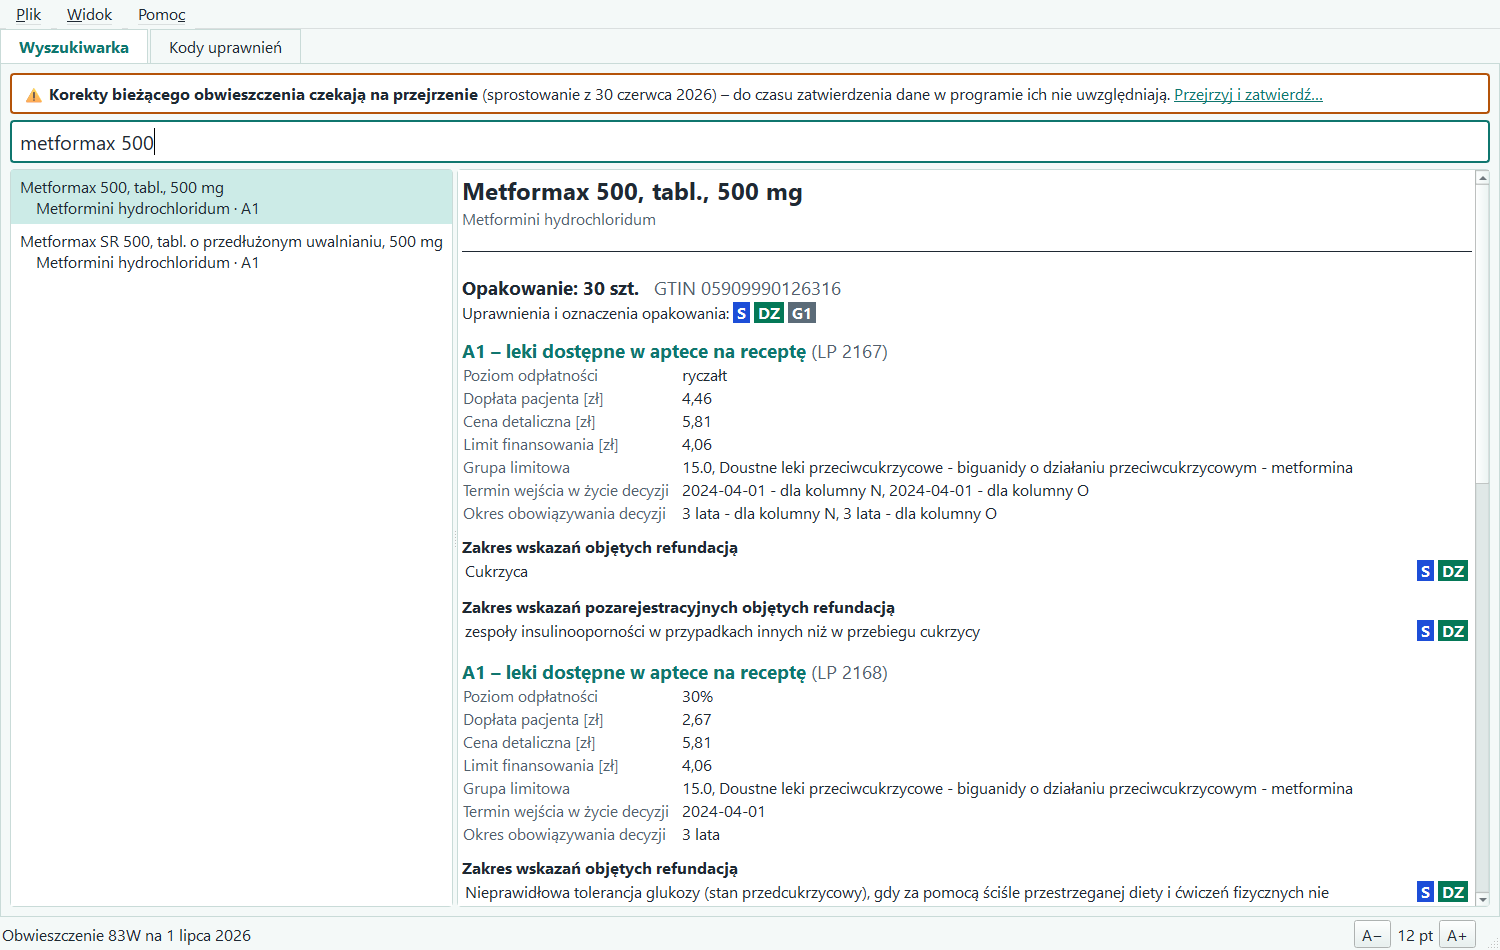
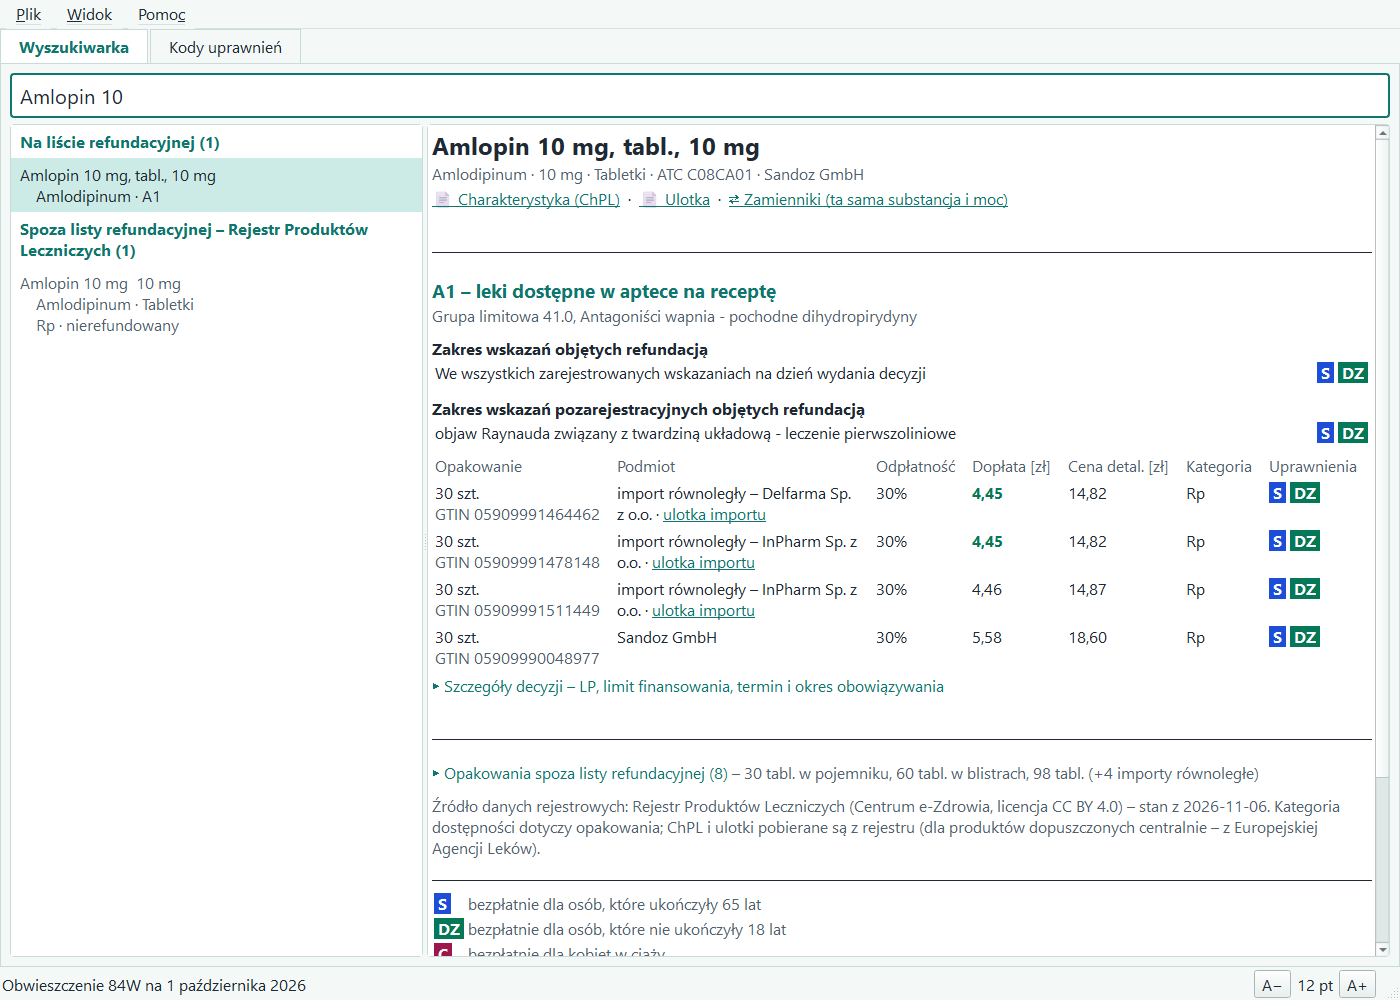
Refundator 1.1.0 i 1.2.0 – rejestr leków, zwarta karta, automatyczna aktualizacja

diff --git a/INSTRUKCJA.md b/INSTRUKCJA.md
@@ -8,13 +8,14 @@ Refundator pokazuje, czy lek jest na liście leków refundowanych (obwieszczenie
 3. [Wyszukiwanie](#3-wyszukiwanie)
 4. [Karta leku](#4-karta-leku)
 5. [Programy lekowe, chemioterapia i kody ICD-10](#5-programy-lekowe-chemioterapia-i-kody-icd-10)
-6. [Nowe obwieszczenia](#6-nowe-obwieszczenia)
-7. [Korekty – sprostowania i obwieszczenia zmieniające](#7-korekty--sprostowania-i-obwieszczenia-zmieniające)
-8. [Kody uprawnień](#8-kody-uprawnień)
-9. [Wygląd – motywy i rozmiar czcionki](#9-wygląd--motywy-i-rozmiar-czcionki)
-10. [Praca bez internetu](#10-praca-bez-internetu)
-11. [Dane, aktualizacja programu i odinstalowanie](#11-dane-aktualizacja-programu-i-odinstalowanie)
-12. [Skróty klawiszowe](#12-skróty-klawiszowe)
+6. [Leki spoza listy, ChPL, ulotki i zamienniki](#6-leki-spoza-listy-chpl-ulotki-i-zamienniki)
+7. [Nowe obwieszczenia](#7-nowe-obwieszczenia)
+8. [Korekty – sprostowania i obwieszczenia zmieniające](#8-korekty--sprostowania-i-obwieszczenia-zmieniające)
+9. [Kody uprawnień](#9-kody-uprawnień)
+10. [Wygląd – motywy i rozmiar czcionki](#10-wygląd--motywy-i-rozmiar-czcionki)
+11. [Praca bez internetu](#11-praca-bez-internetu)
+12. [Dane, aktualizacja programu i odinstalowanie](#12-dane-aktualizacja-programu-i-odinstalowanie)
+13. [Skróty klawiszowe](#13-skróty-klawiszowe)
 
 ---
 
@@ -44,6 +45,7 @@ Wpisz w pole wyszukiwania:
 | substancję czynną | `rivaroxabanum`, `metformina` | substancja po łacinie; polską nazwę program znajdzie przez grupę limitową |
 | numer GTIN | `05909990893423` | konkretne opakowanie |
 | kod ICD-10 | `M31.3`, `m 31,3`, `C50.9`, `F33` | leki z programów lekowych i chemioterapii, których załącznik obejmuje kod (dokładnie, całą kategorią, podkodem albo zakresem), oraz leki apteczne, w których treści wskazania kod jest wpisany wprost |
+| kod ATC | `C10AA05`, `b01af` | leki z danej grupy ATC (wymaga Rejestru Produktów Leczniczych – rozdział 6) |
 | nazwę choroby | `łuszczyca stawowa`, `miastenia` | leki z programów, których kody ICD-10 mają taką nazwę w urzędowym słowniku, oraz leki apteczne, w których treści wskazania pada to słowo |
 
 Wyniki wyszukiwania po chorobie pojawiają się w osobnej grupie **„Według choroby”**, a przy każdym leku widać, skąd pochodzi dopasowanie (np. „B.35. L40.5 Łuszczyca stawowa” albo „wskazanie: …”). Szukane słowa i kody są podświetlone na karcie leku.
@@ -55,8 +57,10 @@ Uwaga: wskazania leków aptecznych opisane w obwieszczeniu słowami (np. „Cukr
 ## 4. Karta leku
 Po wybraniu leku z listy po prawej stronie pojawia się jego karta:
 
-- **Opakowania** (zawartość, GTIN) i ich oznaczenia: **S**, **DZ**, **C**, a także F2 (technologia o wysokim poziomie innowacyjności), G1/G2 (lek wytwarzany w Polsce).
-- **Wiersze obwieszczenia** – część wykazu (A1 apteka, A2 środki spożywcze, A3 wyroby medyczne, B program lekowy, C chemioterapia) i numer LP; poziom odpłatności, dopłata pacjenta, cena detaliczna, limit finansowania, grupa limitowa, termin wejścia w życie i okres decyzji.
+- **Nagłówek** – nazwa, substancja, moc, postać, kod ATC i podmiot odpowiedzialny oraz przyciski **Charakterystyka (ChPL)**, **Ulotka** i **Zamienniki** (po pobraniu Rejestru Produktów Leczniczych – rozdział 6).
+- **Zakres refundacji** – część wykazu (A1 apteka, A2 środki spożywcze, A3 wyroby medyczne, B program lekowy, C chemioterapia) i grupa limitowa. Opakowania o identycznym zakresie (np. oryginał i jego importy równoległe) są zebrane razem – zakres widać raz. Jeśli opakowania mają w tej samej części kilka zakresów z różną odpłatnością, każdy jest osobno („zakres refundacji 1 z 2”).
+- **Tabela opakowań** pod zakresem – opakowanie i GTIN, podmiot (oryginał albo import równoległy, z linkiem do ulotki importu), poziom odpłatności, dopłata pacjenta, cena detaliczna, kategoria dostępności i oznaczenia **S**, **DZ**, **C**, F2 (technologia o wysokim poziomie innowacyjności), G1/G2 (lek wytwarzany w Polsce). Opakowania są ułożone od najniższej dopłaty, najniższa jest wyróżniona na zielono.
+- **▸ Szczegóły decyzji** – po kliknięciu: numer LP, limit finansowania, termin wejścia w życie i okres obowiązywania decyzji dla każdego opakowania. **▸ Opakowania spoza listy refundacyjnej** – pozostałe opakowania tego leku z rejestru (także importy, których nie ma w obwieszczeniu).
 - **Zakres wskazań** – każde wskazanie osobno (oznaczenia &lt;1&gt;, &lt;2&gt;… jak w obwieszczeniu), także wskazania pozarejestracyjne. Przy każdym wskazaniu znaczki **S / DZ / C** – uprawnienie obejmuje to wskazanie. Kliknięcie znaczka otwiera opis uprawnienia.
 
 ### Uwagi listy DZ
@@ -74,14 +78,23 @@ Dla leków z części B i C karta pokazuje załączniki, do których odwołuje s
 - Najedź na kod, żeby zobaczyć jego nazwę; **kliknij kod**, żeby wyszukać wszystkie leki z tym kodem.
 - Link **„pełny opis programu”** (B) albo **„pełna treść załącznika”** (C) otwiera treść załącznika: kryteria kwalifikacji i wyłączenia, dawkowanie, badania – z wyszukiwaniem w tekście (Enter – następne wystąpienie) i przyciskiem **„Otwórz oryginał (Word)”**. Automatyczna numeracja punktów z Worda może nie być odwzorowana – w razie wątpliwości otwórz oryginał.
 
-## 6. Nowe obwieszczenia
+## 6. Leki spoza listy, ChPL, ulotki i zamienniki
+Program korzysta też z **Rejestru Produktów Leczniczych** (Centrum e-Zdrowia) – wykazu wszystkich leków dopuszczonych do obrotu w Polsce. Pobierz go raz: **Plik → Pobierz Rejestr Produktów Leczniczych** (ok. 17 MB) albo link na pasku nad wyszukiwarką. Później program odświeża go razem z obwieszczeniem, gdy dane mają co najmniej 7 dni (stan rejestru widać w oknie aktualizacji i w dymku na pasku stanu).
+
+- **Leki spoza listy refundacyjnej** pojawiają się w wynikach w osobnej grupie **„Spoza listy refundacyjnej”** – z mocą, postacią i kategorią dostępności (Rp – na receptę, OTC – bez recepty, Rpz, Rpw, Lz). Ich karta pokazuje **„NIE MA NA LIŚCIE REFUNDACYJNEJ”** (żadne opakowanie – numer GTIN – nie występuje w obwieszczeniu), dane z rejestru i opakowania.
+- **Kod ATC:** wpisz np. `C10AA05` albo `B01AF`, żeby znaleźć leki z danej grupy – z listy i spoza niej.
+- Na karcie **leku refundowanego** dane z rejestru są wplecione w kartę (rozdział 4): kod ATC i podmiot w nagłówku, podmiot i kategoria dostępności w tabeli opakowań, pozostałe opakowania w sekcji „Opakowania spoza listy refundacyjnej”.
+- **Charakterystyka (ChPL)** i **Ulotka** – kliknij, program pobierze dokument i otworzy go w przeglądarce PDF (kopia jest przechowywana 30 dni). Dla leków dopuszczonych centralnie w Unii Europejskiej dokument pochodzi z Europejskiej Agencji Leków – jeden plik z ChPL i ulotką dla wszystkich mocy; jeśli go nie ma, program zaproponuje wyszukiwarkę EMA. Dla leków z importu równoległego rejestr udostępnia tylko ulotkę.
+- **Zamienniki** – leki o tej samej substancji (nazwie powszechnie stosowanej) i mocy, najpierw o tej samej postaci; przy refundowanych – część wykazu, poziom odpłatności i dopłata dla każdego opakowania. Kliknięcie nazwy otwiera kartę leku. O zamianie w aptece decyduje farmaceuta – lista jest pomocnicza.
+
+## 7. Nowe obwieszczenia
 Obwieszczenia ukazują się co kwartał (na 1 stycznia, kwietnia, lipca i października), zwykle kilka tygodni wcześniej.
 
 - Przy uruchomieniu program **sprawdza stronę MZ w tle** (można to wyłączyć: Plik → Sprawdzaj aktualizacje przy uruchomieniu). Pasek nad wyszukiwarką informuje o nowym obowiązującym obwieszczeniu, o obwieszczeniu ogłoszonym na kolejny kwartał i o nowych korektach.
 - Ogłoszone obwieszczenie można **pobrać wcześniej** – gdy wejdzie w życie, program **sam ustawi je jako bieżące** i o tym poinformuje.
 - W oknie aktualizacji (Ctrl+U) możesz też wrócić do innego pobranego obwieszczenia („Ustaw jako bieżące”).
 
-## 7. Korekty – sprostowania i obwieszczenia zmieniające
+## 8. Korekty – sprostowania i obwieszczenia zmieniające
 Ministerstwo publikuje korekty obwieszczeń tylko w PDF. Program pobiera je razem z obwieszczeniem i – dopóki ich nie przejrzysz – **ostrzega na pasku**, że dane ich nie uwzględniają.
 
 Otwórz **Plik → Korekty obwieszczenia** (Ctrl+K) albo link „Przejrzyj i zatwierdź…”:
@@ -95,28 +108,30 @@ Otwórz **Plik → Korekty obwieszczenia** (Ctrl+K) albo link „Przejrzyj i zat
 
 Dokumenty spoza danych programu (np. „Podstawy limitu”, ceny zbytu netto) są pokazywane tylko informacyjnie.
 
-## 8. Kody uprawnień
+## 9. Kody uprawnień
 Zakładka **„Kody uprawnień”** opisuje 10 kodów uprawnień dodatkowych pacjenta (S, DZ, C, IB, WE, IW, ZK, PO, AZ, WP): kogo dotyczą, zakres, wymagany dokument, podstawę prawną i to, czy farmaceuta może uzupełnić kod na recepcie. Kody S, DZ i C zależą od konkretnego leku i są widoczne na karcie leku; pozostałe wynikają z ustaw.
 
-## 9. Wygląd – motywy i rozmiar czcionki
+## 10. Wygląd – motywy i rozmiar czcionki
 - **Widok → Motyw jasny / Motyw ciemny / Wysoki kontrast.** Wysoki kontrast (czarne tło, biały tekst, żółte wyróżnienia, grubsze ramki) jest przeznaczony dla osób słabowidzących.
 - **Rozmiar czcionki:** Widok → Powiększ / Pomniejsz / Domyślny rozmiar, skróty Ctrl+= / Ctrl+− / Ctrl+0, Ctrl+kółko myszy na karcie leku albo przyciski **A− / A+** na pasku stanu (9–24 pt, domyślnie 12 pt).
 
 Wybór motywu i rozmiaru jest zapamiętywany.
 
-## 10. Praca bez internetu
+## 11. Praca bez internetu
 Bez dostępu do sieci można zaimportować pliki pobrane wcześniej ze strony MZ:
 - **Plik → Importuj obwieszczenie z pliku (xlsx)** – plik `…_zalacznik_do_obwieszczenia.xlsx`,
-- **Plik → Importuj załączniki B/C z pliku (7z/zip)** – archiwa `Programy_lekowe_RRRR-MM` i `Chemioterapia_RRRR-MM`.
+- **Plik → Importuj załączniki B/C z pliku (7z/zip)** – archiwa `Programy_lekowe_RRRR-MM` i `Chemioterapia_RRRR-MM`,
+- **Plik → Importuj Rejestr Produktów Leczniczych z pliku (csv)** – plik CSV rejestru (rejestry.ezdrowie.gov.pl → Rejestr Produktów Leczniczych → eksport CSV albo dane.gov.pl, zbiór 397).
 
 Import jest ścisły: jeśli układ pliku różni się od oczekiwanego, program przerywa import i nic nie zapisuje. Uwagi z importu: **Plik → Raport importu**.
 
-## 11. Dane, aktualizacja programu i odinstalowanie
+## 12. Dane, aktualizacja programu i odinstalowanie
 - Baza danych i pobrane pliki: `%LOCALAPPDATA%\Refundator`. Ustawienia (motyw, czcionka): rejestr użytkownika.
-- **Nowa wersja programu:** pobierz nowy instalator z [Wydania](../../releases/latest) i uruchom – zainstaluje się w miejsce poprzedniej, dane zostaną.
+- **Nowa wersja programu (od 1.2.0) instaluje się sama:** przy uruchomieniu program sprawdza wydania na GitHubie; gdy jest nowsza wersja, pobiera instalator (postęp na ekranie startowym), sprawdza jego sumę kontrolną, informuje o aktualizacji (szczegóły – „Pokaż szczegóły”: co nowego), instaluje ją i uruchamia się ponownie. Dane i ustawienia zostają. Bez internetu program uruchamia się normalnie. Automatyczną aktualizację można wyłączyć: **Plik → Aktualizuj program automatycznie**; ręcznie: **Pomoc → Sprawdź aktualizacje programu**.
+- Wersje 1.0.0 i 1.1.0 nie aktualizują się same – pobierz instalator z [Wydania](../../releases/latest) i uruchom; zainstaluje się w miejsce poprzedniej, dane zostaną.
 - **Odinstalowanie:** Ustawienia Windows → Aplikacje → Refundator albo menu Start → Refundator → „Odinstaluj Refundator”. Dane w `%LOCALAPPDATA%\Refundator` zostają – można je usunąć ręcznie.
 
-## 12. Skróty klawiszowe
+## 13. Skróty klawiszowe
 | Skrót | Działanie |
 |---|---|
 | Ctrl+U | Aktualizuj ze strony MZ |

diff --git a/README.md b/README.md
@@ -10,17 +10,25 @@ Refundator to program dla Windows, który odpowiada na pytanie: **czy lek jest n
 
 ## Co potrafi
 - **Wyszukiwanie** po nazwie handlowej, substancji czynnej (także po polsku), numerze GTIN, **kodzie ICD-10** (np. `M31.3`) i **nazwie choroby** (np. „łuszczyca stawowa”).
-- **Karta leku:** każdy zakres refundacji osobno – poziom odpłatności, dopłata pacjenta, cena, limit, grupa limitowa, termin i okres decyzji.
+- **Karta leku:** zakres refundacji raz, a pod nim zwarta tabela opakowań (także importów równoległych) – poziom odpłatności, dopłata pacjenta, cena, kategoria dostępności; szczegóły decyzji po rozwinięciu.
 - **Uprawnienia S, DZ i C** (65+, do 18 lat, ciąża) przy każdym wskazaniu, którego dotyczą – z dopasowaniem „Uwag” listy DZ i ostrzeżeniem, gdy uwagi nie zgadzają się z treścią wskazań.
 - **Programy lekowe i chemioterapia:** kody ICD-10 z załączników wraz z nazwami chorób, warunkami i pełnym opisem programu (kryteria kwalifikacji, dawkowanie, badania).
 - **Korekty obwieszczeń** odczytywane z PDF i pokazywane **do zatwierdzenia** – każdą zmianę można sprawdzić ze źródłem i cofnąć.
-- **Aktualizacja jednym kliknięciem** ze strony Ministerstwa Zdrowia; nowe obwieszczenie program sam ustawia jako bieżące, gdy wchodzi w życie.
+- **Program aktualizuje się sam** – przy uruchomieniu pobiera i instaluje nową wersję (ze sprawdzeniem sumy kontrolnej).
+- **Aktualizacja danych jednym kliknięciem** ze strony Ministerstwa Zdrowia; nowe obwieszczenie program sam ustawia jako bieżące, gdy wchodzi w życie.
 - **Kody uprawnień dodatkowych** (S, DZ, C, IB, WE, IW, ZK, PO, AZ, WP) – kogo dotyczą, zakres, podstawa prawna.
+- **Leki spoza listy refundacyjnej** z Rejestru Produktów Leczniczych – z kategorią dostępności (Rp, OTC…), kodem ATC i opakowaniami; wyszukiwanie także po **kodzie ATC**.
+- **Charakterystyka produktu leczniczego (ChPL) i ulotka** jednym kliknięciem – z rejestru, a dla leków dopuszczonych centralnie z Europejskiej Agencji Leków.
+- **Zamienniki** – leki o tej samej substancji i mocy, z informacją, które są refundowane i z jaką dopłatą.
 - **Czytelność:** motyw jasny, ciemny i **wysoki kontrast**, regulowany rozmiar czcionki.
 
 | Szukanie po chorobie | Korekty do zatwierdzenia |
 |---|---|
 | ![Szukanie po chorobie](zrzuty/szukanie-po-chorobie.png) | ![Korekty](zrzuty/korekty.png) |
+
+| Lek spoza listy refundacyjnej | Zamienniki |
+|---|---|
+| ![Lek spoza listy](zrzuty/spoza-listy.png) | ![Zamienniki](zrzuty/zamienniki.png) |
 
 ## Pobierz
 Najnowsza wersja: **[Wydania → Latest](../../releases/latest)** – plik `Refundator-…-instalator.exe`.
@@ -34,7 +42,7 @@ Przy pierwszym uruchomieniu instalatora Windows może pokazać okno „System Wi
 Program ma charakter **wyłącznie informacyjny**. Wiążąca jest treść obwieszczeń Ministra Zdrowia oraz przepisów prawa. Program nie przypisuje kodów ICD-10 do wskazań, których obwieszczenie nie opisuje kodami – pokazuje urzędowe brzmienie, a wszystko, czego nie da się odczytać jednoznacznie, wyraźnie oznacza.
 
 ## Prywatność
-Program nie zbiera i nie wysyła żadnych danych. Łączy się wyłącznie ze stroną **www.gov.pl**, żeby sprawdzić i pobrać obwieszczenia (sprawdzanie przy uruchomieniu można wyłączyć w menu Plik). Pobrane pliki i baza danych zostają na Twoim komputerze (`%LOCALAPPDATA%\Refundator`).
+Program nie zbiera i nie wysyła żadnych danych. Łączy się wyłącznie ze stroną **www.gov.pl**, żeby sprawdzić i pobrać obwieszczenia (sprawdzanie przy uruchomieniu można wyłączyć w menu Plik), z serwisem **GitHub** (api.github.com i serwery plików wydań), żeby sprawdzić i pobrać nową wersję programu (automatyczną aktualizację można wyłączyć w menu Plik), oraz – gdy o to poprosisz – z Rejestrem Produktów Leczniczych (**rejestry.ezdrowie.gov.pl**, **rejestrymedyczne.ezdrowie.gov.pl**) i stroną Europejskiej Agencji Leków (**www.ema.europa.eu**), żeby pobrać rejestr, ChPL i ulotki. Pobrane pliki i baza danych zostają na Twoim komputerze (`%LOCALAPPDATA%\Refundator`).
 
 ## Wymagania
 Windows 10 lub 11 (64-bit).
@@ -43,5 +51,7 @@ Windows 10 lub 11 (64-bit).
 Program: [LICENCJA.txt](LICENCJA.txt) – bezpłatny do użytku, wszelkie prawa zastrzeżone. Program zawiera biblioteki open source (m.in. Qt/PySide6 na licencji LGPL) – ich wykaz i licencje są w folderze `licencje` po instalacji; kod źródłowy bibliotek LGPL-2.1 jest dołączony do każdego wydania.
 
 Nazwy kodów ICD-10: Rejestr Systemów Kodowania, Centrum e-Zdrowia, [dane.gov.pl](https://dane.gov.pl/pl/dataset/27), licencja [CC BY 4.0](https://creativecommons.org/licenses/by/4.0/deed.pl).
+
+Rejestr Produktów Leczniczych: Centrum e-Zdrowia, [dane.gov.pl](https://dane.gov.pl/pl/dataset/397), licencja [CC BY 4.0](https://creativecommons.org/licenses/by/4.0/deed.pl). Dokumenty produktów dopuszczonych centralnie: [Europejska Agencja Leków](https://www.ema.europa.eu).
 
 To repozytorium zawiera tylko wydania i instrukcję.
